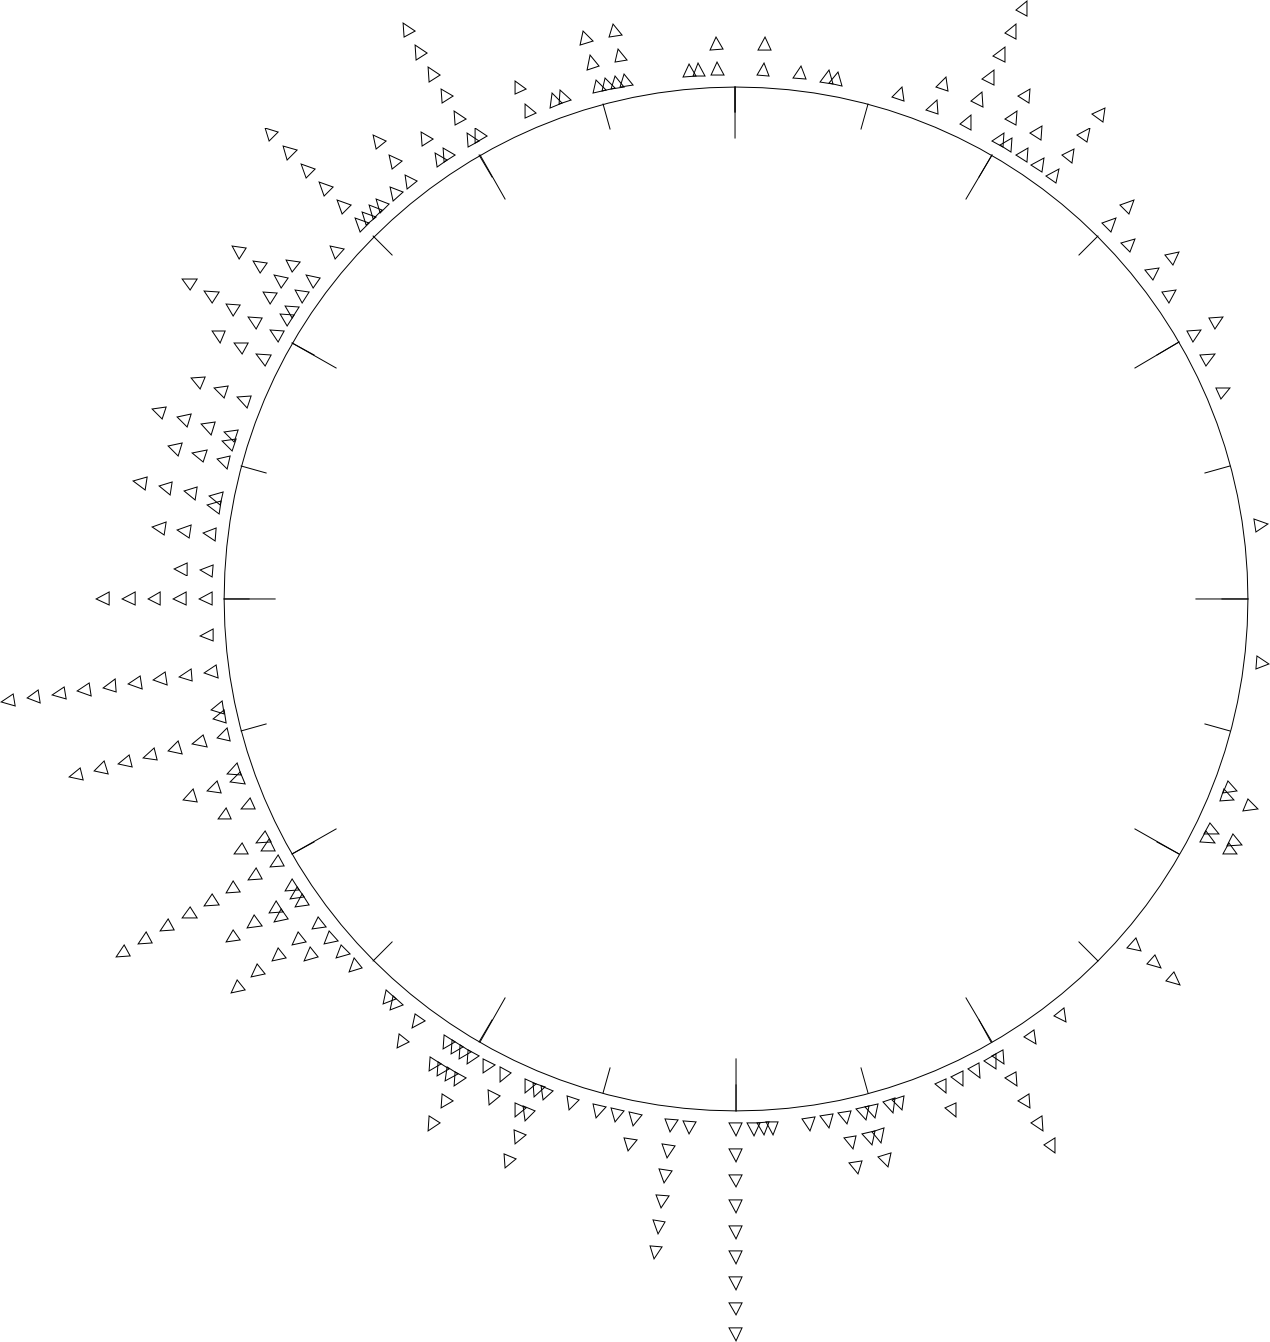
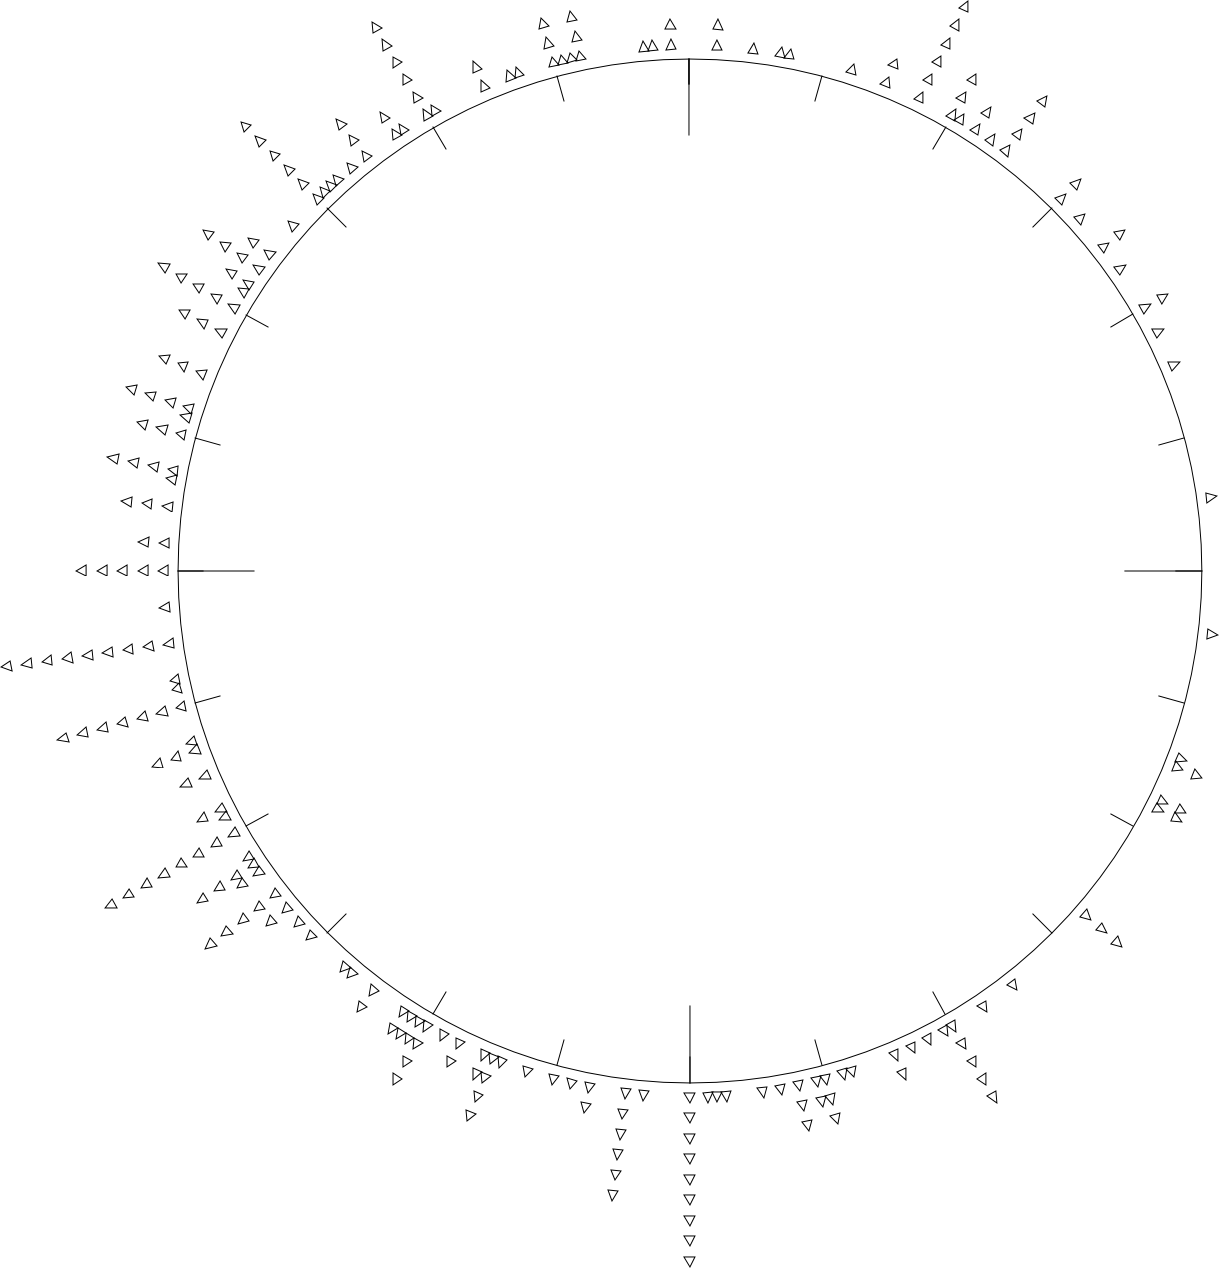
Raw data plot for axes data type

diff --git a/src/main/java/pl/poznan/put/circular/graphics/RawDataPlot.java b/src/main/java/pl/poznan/put/circular/graphics/RawDataPlot.java
@@ -20,13 +20,15 @@ import org.w3c.dom.DOMImplementation;
 import org.w3c.dom.svg.SVGDocument;
 import org.w3c.dom.svg.SVGSVGElement;
 
+import pl.poznan.put.circular.Axis;
+import pl.poznan.put.circular.Circular;
 import pl.poznan.put.circular.Vector;
 import pl.poznan.put.circular.exception.InvalidFormatException;
 import pl.poznan.put.utility.svg.Format;
 import pl.poznan.put.utility.svg.SVGHelper;
 
 public class RawDataPlot {
-    private final Collection<Vector> vectors;
+    private final Collection<Circular> data;
     private final double diameter;
     private final double majorTickSpread;
     private final double minorTickSpread;
@@ -35,29 +37,30 @@ public class RawDataPlot {
     private double centerY;
     private double radius;
 
-    public RawDataPlot(Collection<Vector> vectors, double diameter, double majorTickSpread, double minorTickSpread) {
+    public RawDataPlot(Collection<Circular> data, double diameter, double majorTickSpread, double minorTickSpread) {
         super();
-        this.vectors = vectors;
+        this.data = data;
         this.diameter = diameter;
         this.majorTickSpread = majorTickSpread;
         this.minorTickSpread = minorTickSpread;
+        init();
     }
 
-    public RawDataPlot(Collection<Vector> vectors, double diameter) {
+    public RawDataPlot(Collection<Circular> data, double diameter) {
         super();
-        this.vectors = vectors;
+        this.data = data;
         this.diameter = diameter;
-        this.majorTickSpread = Math.PI / 6;
+        this.majorTickSpread = Math.PI / 2;
         this.minorTickSpread = Math.PI / 12;
+        init();
     }
 
-    public RawDataPlot(Collection<Vector> vectors) {
+    public RawDataPlot(Collection<Circular> data) {
         super();
-        this.vectors = vectors;
+        this.data = data;
         this.diameter = 1024;
-        this.majorTickSpread = Math.PI / 6;
+        this.majorTickSpread = Math.PI / 2;
         this.minorTickSpread = Math.PI / 12;
-
         init();
     }
 
@@ -78,28 +81,28 @@ public class RawDataPlot {
         graphics.drawOval(0, 0, (int) diameter, (int) diameter);
         // ticks
         double rminor = 0.95 * radius;
-        double rmajor = 0.90 * radius;
+        double rmajor = 0.85 * radius;
         drawTicks(graphics, minorTickSpread, rminor);
         drawTicks(graphics, majorTickSpread, rmajor);
 
         // observations for every degree on a circle (map key = 0..360)
-        Map<Integer, List<Vector>> observations = new TreeMap<>();
+        Map<Integer, List<Circular>> observations = new TreeMap<>();
 
-        for (Vector vector : vectors) {
-            double degrees = vector.getDegrees360();
+        for (Circular circular : data) {
+            double degrees = circular.getDegreesPositive();
             int index = (int) degrees;
 
             if (!observations.containsKey(index)) {
-                observations.put(index, new ArrayList<Vector>());
+                observations.put(index, new ArrayList<Circular>());
             }
 
-            List<Vector> list = observations.get(index);
-            list.add(vector);
+            List<Circular> list = observations.get(index);
+            list.add(circular);
         }
 
-        double observationSize = 0.025 * radius;
+        double observationSize = 0.02 * radius;
 
-        for (Entry<Integer, List<Vector>> entry : observations.entrySet()) {
+        for (Entry<Integer, List<Circular>> entry : observations.entrySet()) {
             // 't' = angle as in XY coordinate system
             int degree = entry.getKey();
             double t = -(Math.toRadians(degree) + Math.PI * 3 / 2) % (2 * Math.PI);
@@ -110,42 +113,54 @@ public class RawDataPlot {
             double a = (x - centerX) / (y - centerY);
 
             int i = 0;
-            for (Vector vector : entry.getValue()) {
+            for (Circular circular : entry.getValue()) {
                 // point on virtual circle
                 double virtualRadius = radius + (i + 1) * observationSize;
                 double xv = centerX + virtualRadius * Math.cos(t);
                 double yv = centerY + virtualRadius * Math.sin(t);
-                double x1, y1, x2, y2;
 
-                // special case is required for 90 and 270 degrees
-                if (degree == 90 || degree == 270) {
-                    x1 = xv;
-                    y1 = yv + observationSize / 2;
-                    x2 = xv;
-                    y2 = yv - observationSize / 2;
-                } else {
-                    // 'ap', 'bp' = equation for perpendicular line to 'a', 'b'
-                    double ap = -a;
-                    double bp = yv + a * xv;
-                    // 'sa', 'sb', 'sc' = square equation parameters
-                    double sa = 1 + Math.pow(ap, 2);
-                    double sb = -2 * xv + 2 * ap * (bp - yv);
-                    double sc = Math.pow(xv, 2) + Math.pow(bp - yv, 2) - Math.pow(observationSize / 2, 2);
-                    // solve
-                    double delta = sb * sb - 4 * sa * sc;
-                    x1 = (-sb - Math.sqrt(delta)) / (2 * sa);
-                    y1 = ap * x1 + bp;
-                    x2 = (-sb + Math.sqrt(delta)) / (2 * sa);
-                    y2 = ap * x2 + bp;
+                if (circular instanceof Vector) {
+                    double x1, y1, x2, y2;
+
+                    // special case is required for 90 and 270 degrees
+                    if (degree == 90 || degree == 270) {
+                        x1 = xv;
+                        y1 = yv + observationSize / 2;
+                        x2 = xv;
+                        y2 = yv - observationSize / 2;
+                    } else {
+                        // 'ap', 'bp' = equation for perpendicular line to 'a',
+                        // 'b'
+                        double ap = -a;
+                        double bp = yv + a * xv;
+                        // 'sa', 'sb', 'sc' = square equation parameters
+                        double sa = 1 + Math.pow(ap, 2);
+                        double sb = -2 * xv + 2 * ap * (bp - yv);
+                        double sc = Math.pow(xv, 2) + Math.pow(bp - yv, 2) - Math.pow(observationSize / 2, 2);
+                        // solve
+                        double delta = sb * sb - 4 * sa * sc;
+                        x1 = (-sb - Math.sqrt(delta)) / (2 * sa);
+                        y1 = ap * x1 + bp;
+                        x2 = (-sb + Math.sqrt(delta)) / (2 * sa);
+                        y2 = ap * x2 + bp;
+                    }
+
+                    // last point is one step further
+                    virtualRadius = radius + (i + 2) * observationSize;
+                    double x3 = centerX + virtualRadius * Math.cos(t);
+                    double y3 = centerY + virtualRadius * Math.sin(t);
+
+                    graphics.drawPolygon(new int[] { (int) x1, (int) x2, (int) x3 }, new int[] { (int) (diameter - y1), (int) (diameter - y2), (int) (diameter - y3) }, 3);
+                    i += 2;
+                } else if (circular instanceof Axis) {
+                    xv -= observationSize / 2.0;
+                    yv += observationSize / 2.0;
+                    graphics.drawOval((int) xv, (int) (diameter - yv), (int) observationSize, (int) observationSize);
+                    xv = centerX + virtualRadius * Math.cos(t + Math.PI) - observationSize / 2.0;
+                    yv = centerY + virtualRadius * Math.sin(t + Math.PI) + observationSize / 2.0;
+                    graphics.drawOval((int) xv, (int) (diameter - yv), (int) observationSize, (int) observationSize);
+                    i += 1;
                 }
-
-                // last point is one step further
-                virtualRadius = radius + (i + 2) * observationSize;
-                double x3 = centerX + virtualRadius * Math.cos(t);
-                double y3 = centerY + virtualRadius * Math.sin(t);
-
-                graphics.drawPolygon(new int[] { (int) x1, (int) x2, (int) x3 }, new int[] { (int) (diameter - y1), (int) (diameter - y2), (int) (diameter - y3) }, 3);
-                i += 2;
             }
         }
 
@@ -171,8 +186,11 @@ public class RawDataPlot {
     }
 
     public static void main(String[] args) throws IOException, InvalidFormatException {
-        List<Vector> vectors = new ArrayList<>();
-        List<String> lines = FileUtils.readLines(new File("../../data/D01"), "UTF-8");
+        /*
+         * First example
+         */
+        List<Circular> data = new ArrayList<>();
+        List<String> lines = FileUtils.readLines(new File("data/D01"), "UTF-8");
 
         for (String line : lines) {
             if (line.startsWith("#")) {
@@ -181,15 +199,41 @@ public class RawDataPlot {
 
             for (String token : StringUtils.split(line)) {
                 if (!StringUtils.isBlank(token)) {
-                    vectors.add(Vector.fromHourMinuteString(token));
+                    data.add(Vector.fromHourMinuteString(token));
                 }
             }
         }
 
-        RawDataPlot plot = new RawDataPlot(vectors);
+        RawDataPlot plot = new RawDataPlot(data);
         SVGDocument svgDocument = plot.draw();
 
         try (OutputStream stream = new FileOutputStream("/tmp/D01-plot.svg")) {
+            SVGHelper.export(svgDocument, stream, Format.SVG, null);
+        }
+
+        /*
+         * Second example
+         */
+        data.clear();
+        lines = FileUtils.readLines(new File("data/D02"), "UTF-8");
+
+        for (String line : lines) {
+            if (line.startsWith("#")) {
+                continue;
+            }
+
+            for (String token : StringUtils.split(line)) {
+                if (!StringUtils.isBlank(token)) {
+                    double degrees = Double.parseDouble(token);
+                    data.add(new Axis(Math.toRadians(degrees)));
+                }
+            }
+        }
+
+        plot = new RawDataPlot(data);
+        svgDocument = plot.draw();
+
+        try (OutputStream stream = new FileOutputStream("/tmp/D02-plot.svg")) {
             SVGHelper.export(svgDocument, stream, Format.SVG, null);
         }
     }

diff --git a/src/main/java/pl/poznan/put/circular/Vector.java b/src/main/java/pl/poznan/put/circular/Vector.java
@@ -2,7 +2,12 @@ package pl.poznan.put.circular;
 
 import pl.poznan.put.circular.exception.InvalidFormatException;
 
-public class Vector {
+/**
+ * A class of measurements where one can distinguisch a direction.
+ * 
+ * @author tzok
+ */
+public class Vector extends Circular {
     private static final int MINUTES_IN_DAY = 24 * 60;
 
     /**
@@ -32,27 +37,12 @@ public class Vector {
         }
     }
 
-    private final double radians;
-
     public Vector(double radians) {
-        super();
-        this.radians = radians;
-    }
-
-    public double getRadians() {
-        return radians;
-    }
-
-    public double getDegrees() {
-        return Math.toDegrees(radians);
-    }
-
-    public double getDegrees360() {
-        return (Math.toDegrees(radians) + 360.0) % 360.0;
+        super(radians);
     }
 
     @Override
-    public String toString() {
-        return String.valueOf(getRadians()) + " rad\t" + String.valueOf(getDegrees()) + " deg\t" + String.valueOf(getDegrees360()) + " deg";
+    public double getDegreesPositive() {
+        return (Math.toDegrees(radians) + 360.0) % 360.0;
     }
 }

diff --git a/src/main/java/pl/poznan/put/circular/Circular.java b/src/main/java/pl/poznan/put/circular/Circular.java
@@ -1,5 +1,31 @@
 package pl.poznan.put.circular;
 
 public abstract class Circular {
+    protected final double radians;
 
+    public Circular(double radians) {
+        super();
+        this.radians = radians;
+    }
+
+    public double getRadians() {
+        return radians;
+    }
+
+    public double getDegrees() {
+        return Math.toDegrees(radians);
+    }
+
+    /**
+     * Return the circular value in [0..360) for Vector or [0..180) for Axis.
+     * 
+     * @return Number in degrees which represents this datum as its specific
+     *         type.
+     */
+    public abstract double getDegreesPositive();
+
+    @Override
+    public String toString() {
+        return String.valueOf(getRadians()) + " rad\t" + String.valueOf(getDegrees()) + " deg\t" + String.valueOf(getDegreesPositive()) + " deg";
+    }
 }

diff --git a/src/main/java/pl/poznan/put/circular/Axis.java b/src/main/java/pl/poznan/put/circular/Axis.java
@@ -1,0 +1,23 @@
+package pl.poznan.put.circular;
+
+/**
+ * A class of measurements where no direction can be specified. When you analyze
+ * Axes, you should always look at the second pole eg. 30 degrees -> also check
+ * 210 degrees.
+ * 
+ * @author tzok
+ */
+public class Axis extends Circular {
+    public Axis(double radians) {
+        super(radians);
+    }
+
+    @Override
+    public double getDegreesPositive() {
+        double degrees = (Math.toDegrees(radians) + 360.0) % 360.0;
+        if (degrees > 180.0) {
+            degrees -= 180.0;
+        }
+        return degrees;
+    }
+}

diff --git a/README.md b/README.md
@@ -2,4 +2,5 @@
 A library for the analysis of circular data
 
 # Examples
-[Raw Data Plot](examples/D01.png)
+[Plot for vectorx](examples/D01.png)
+[Plot for axes](examples/D02.png)
